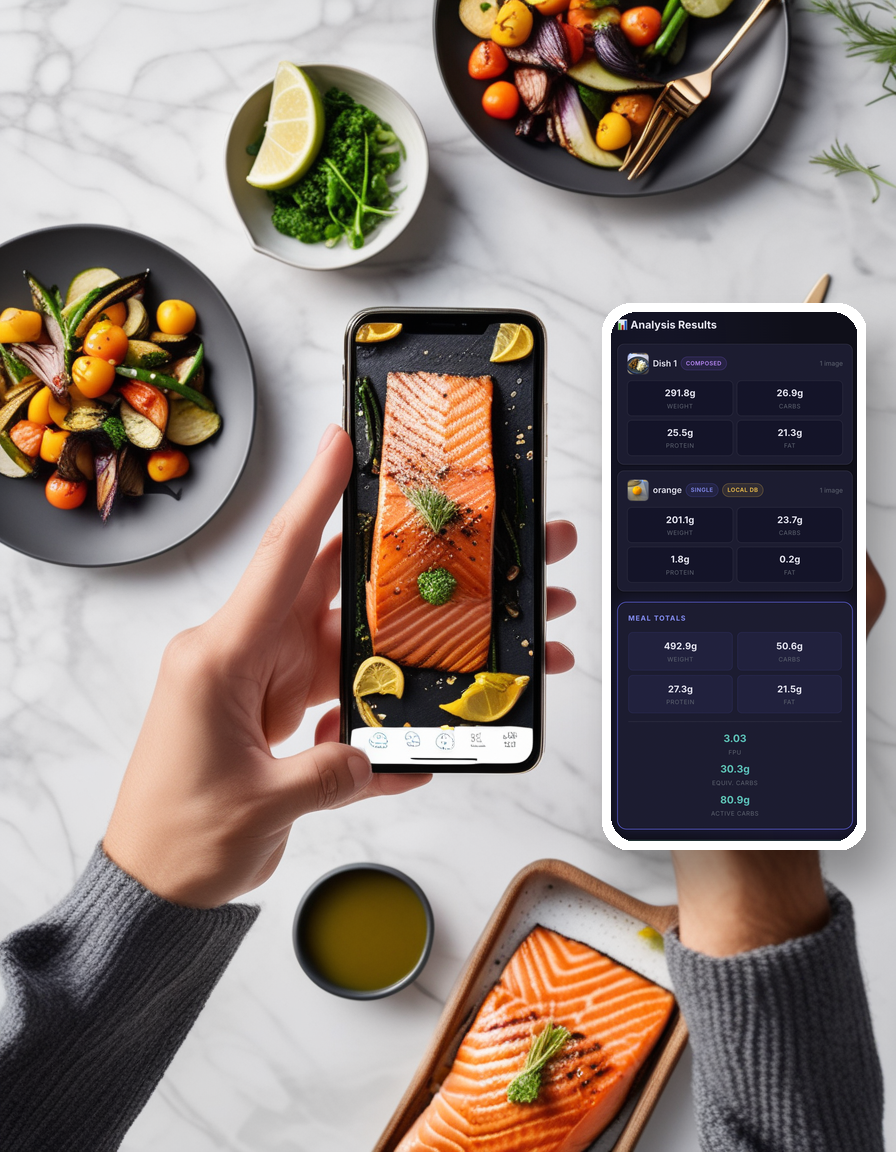
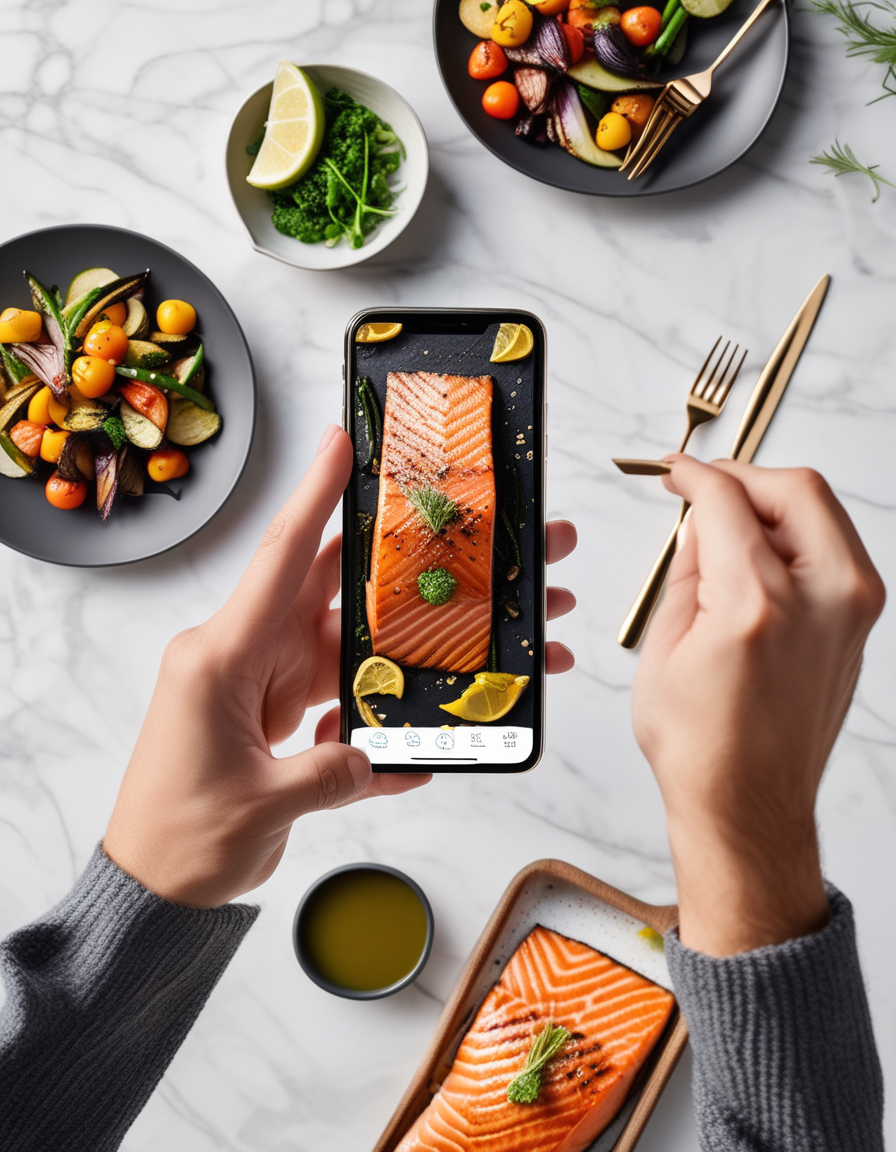
Drop UI overlay; regen 6 champion images; expand README theory + summary table
Decision: after reviewing the 108-image v1 sweep, the PIL UI-card overlay
biased the comparison (occluded what the model drew; produced "two phones"
artefacts on SDXL). Re-rendered only the 6 champion images without overlay
in a tight second pass — full sweep statistics in §5.1 remain valid.

README:
- §1.1 new "What each model is" — latent diffusion, SDXL scale-up, LoRA W+αΔW
- §5.2 drop comparison_matched.png embed (v1 artefact w/ overlay)
- §5.6 replaced two axis tables with a single side-by-side performance+visual
- §6 takeaway #4 rewritten: comparison validity > marketing polish
- §7 honest second-pass note + reframed "two phones" → drop-overlay narrative
- §2 process flow trimmed (no overlay box) + paragraph reframed

Changed region(s): [[0.6562, 0.25, 1.0, 0.7812]]

diff --git a/scripts/regenerate_champions.py b/scripts/regenerate_champions.py
@@ -1,0 +1,109 @@
+"""Regenerate the 6 champion images WITHOUT the UI overlay.
+
+Same prompts, schedulers, and seeds as the sweep — only the PIL composite
+step is skipped, so we get the clean text2img output that the models actually
+produced. Output overwrites the champion PNGs in screenshots/.
+
+Usage: python scripts/regenerate_champions.py
+"""
+from __future__ import annotations
+
+import gc
+import sys
+import time
+from pathlib import Path
+from typing import List, Tuple
+
+import torch
+from tqdm import tqdm
+
+REPO_ROOT = Path(__file__).resolve().parents[1]
+sys.path.insert(0, str(REPO_ROOT))
+
+from src.data.prompts import load_prompts  # noqa: E402
+from src.data.sweeps import RunSpec  # noqa: E402
+from src.models.loader import load_config, load_pipeline, verify_lora_loaded  # noqa: E402
+from src.models.schedulers import make_scheduler  # noqa: E402
+from src.utils.seeding import seed_all  # noqa: E402
+
+CONFIG_PATHS = {
+    "A": "config/config_a_sd15.yaml",
+    "B": "config/config_b_sdxl.yaml",
+    "C": "config/config_c_sd15_lora.yaml",
+}
+
+CHAMPIONS: List[Tuple[str, RunSpec, str]] = [
+    ("A", RunSpec("0017", "A", "sd15", 7.5, 30, 42, "dpmpp_2m"),
+     "champion_A_sd15_g7.5_s30_seed42.png"),
+    ("A", RunSpec("0021", "A", "sd15", 7.5, 50, 42, "dpmpp_2m"),
+     "champion_A_sd15_50steps.png"),
+    ("B", RunSpec("0044", "B", "sdxl", 7.5, 30, 42, "dpmpp_2m"),
+     "champion_B_sdxl_magazine.png"),
+    ("B", RunSpec("0046", "B", "sdxl", 7.5, 50, 42, "dpmpp_2m"),
+     "champion_B_sdxl_50steps.png"),
+    ("C", RunSpec("0078", "C", "sd15_lora", 7.5, 30, 42, "dpmpp_2m", 0.4),
+     "champion_C_lora0.4_subtle.png"),
+    ("C", RunSpec("0085", "C", "sd15_lora", 7.5, 50, 42, "dpmpp_2m", 0.7),
+     "champion_C_lora0.7_glossy.png"),
+]
+
+
+def _build_prompt(cfg, base):
+    if cfg["config_id"] != "C":
+        return base
+    return f"{cfg['lora']['trigger_words']}, {base}"
+
+
+def _generate(pipe, cfg, spec, prompt, negative):
+    pipe.scheduler = make_scheduler(spec.scheduler, pipe.scheduler.config)
+    if cfg["config_id"] == "C" and spec.lora_scale is not None:
+        pipe.set_adapters([cfg["lora"]["adapter_name"]],
+                          adapter_weights=[spec.lora_scale])
+    gen = seed_all(spec.seed, device=cfg.get("device", "mps"))
+    r = cfg["resolution"]
+    return pipe(
+        prompt=prompt, negative_prompt=negative,
+        guidance_scale=spec.guidance_scale,
+        num_inference_steps=spec.num_inference_steps,
+        width=r["width"], height=r["height"], generator=gen,
+    ).images[0]
+
+
+def run() -> None:
+    t0 = time.perf_counter()
+    base_prompt, negative = load_prompts(REPO_ROOT / "config" / "prompts.yaml")
+    screenshots_dir = REPO_ROOT / "screenshots"
+    screenshots_dir.mkdir(exist_ok=True)
+
+    by_cfg: dict[str, list] = {"A": [], "B": [], "C": []}
+    for cid, spec, fname in CHAMPIONS:
+        by_cfg[cid].append((spec, fname))
+
+    for cid, items in by_cfg.items():
+        if not items:
+            continue
+        cfg = load_config(CONFIG_PATHS[cid])
+        print(f"[{cid}] loading pipeline ({len(items)} champions)")
+        pipe = load_pipeline(cfg)
+        if cid == "C":
+            print(f"[lora] verify: {verify_lora_loaded(pipe)}")
+        prompt = _build_prompt(cfg, base_prompt)
+
+        for spec, fname in tqdm(items, desc=f"regen-{cid}"):
+            image = _generate(pipe, cfg, spec, prompt, negative)
+            out = screenshots_dir / fname
+            image.save(out)
+            print(f"  saved {out.name}")
+            del image; gc.collect()
+            if torch.backends.mps.is_available():
+                torch.mps.empty_cache()
+
+        del pipe; gc.collect()
+        if torch.backends.mps.is_available():
+            torch.mps.empty_cache()
+
+    print(f"[done] regen total: {time.perf_counter() - t0:.1f}s")
+
+
+if __name__ == "__main__":
+    run()

diff --git a/README.md b/README.md
@@ -14,6 +14,12 @@ Three configurations, two comparison axes, one shared brief.
 | **B** | SDXL base 1.0 (`stabilityai/stable-diffusion-xl-base-1.0`) | Architecture / scale variant | 896×1152 |
 | **C** | SD 1.5 + 3D-render LoRA (`artificialguybr/3d-redmond-1-5v-3d-render-style-for-liberte-redmond-sd-1-5`) | Control-surface variant — same base as A, adapter-modified | 512×768 |
 
+### 1.1 What each model is — in two paragraphs
+
+**Stable Diffusion 1.5** is a **latent diffusion model** released by Stability AI / Runway in 2022. "Diffusion" means it learned to *denoise* — repeatedly remove a little Gaussian noise from a tensor until what's left is a picture. "Latent" means it does this in a compressed 64×64×4 latent space (encoded/decoded by a VAE), not at pixel resolution — which is the trick that makes the whole thing tractable on consumer hardware. Text guidance is supplied by a frozen CLIP-ViT-L/14 text encoder; the U-Net is conditioned on those text embeddings via cross-attention. ~860M parameters, native 512×512. **SDXL base 1.0** (Stability AI, 2023) is the same idea scaled up: ~2.6B-parameter U-Net, native 1024×1024, *two* text encoders (CLIP-ViT-L + OpenCLIP-ViT-bigG) for a richer prompt signal, and conditioning on resolution/aspect ratio at training time. That last trick is what lets SDXL produce coherent compositions at non-square aspect ratios out of the box — which matters here because the ad is portrait.
+
+**LoRA** (Low-Rank Adaptation, Hu et al. 2021) is a fine-tuning technique that does not retrain the base model. It freezes the U-Net's original weight matrices `W` and learns small *additive* low-rank deltas `ΔW = B·A` (where `A` and `B` have rank ≪ original). Effective weights become `W + α·ΔW`, where `α` is the LoRA *scale* (a runtime knob, not a training one). Storage is small (a few hundred MB instead of several GB), composition is cheap (you can swap LoRAs in and out at inference), and the scale knob gives you a continuous mix between "base model" (`α=0`) and "fully LoRA-flavoured" (`α=1`). Config C uses **3D-Redmond**, a community LoRA trained on Blender-style 3D product renders — at `α=0.7` the food photography gains a glossy, saturated, render-like aesthetic without losing the prompt's composition.
+
 - **Axis 1 (A ↔ B):** architecture and scale at matched prompt/seed/scheduler.
 - **Axis 2 (A ↔ C):** control surface — base model vs. LoRA-adapted base model.
 
@@ -45,10 +51,6 @@ config/*.yaml  +  prompts.yaml
    text2img generation  (fp32 on MPS — see §7)
         |
         v
-   PIL "UI card" overlay      <-- input/L41_app_screenshot.png
-   (src/evaluation/overlay.py)
-        |
-        v
    output/images/<run_id>.png  +  one JSONL row in output/param_log.jsonl
         |
         v
@@ -59,7 +61,7 @@ config/*.yaml  +  prompts.yaml
                      contact sheets, axis grids, champions.md)
 ```
 
-`input/` holds the user's real L41 app screenshot (read-only). It is **not** an `init_image` for the diffusion model — the model generates the scene from text only. The screenshot is composited in afterwards as a right-anchored UI card so the numbers in the ad are 100% accurate. (Why that decision was made: §7.)
+The model generates the full scene from text only — no `init_image`, no overlay, no post-hoc compositing. Earlier iterations tried `img2img` (dropped during smoke) and a PIL UI-card composite of the L41 app screenshot (used for the full 108-image sweep, then dropped before the champion second-pass — see §7). The full v1 sweep with overlays is preserved in `output/images/` as the source of the performance statistics in §5.1; the overlay-free champions in `screenshots/` are what represent the project's visual claims. The `input/` directory remains as historical reference and is read-only.
 
 ---
 
@@ -135,21 +137,17 @@ Three numbers do the most work in the comparison:
 
 ### 5.2 Matched comparison — same seed, same params, three models
 
-This is the single most important image in the project: identical guidance, steps, seed, scheduler, and prompt across all three configs.
+At identical guidance, steps, seed, scheduler, and prompt across all three configs, the differences land on three axes — composition, production value, and aesthetic. The matched champions are shown one-per-config in §5.3–5.5 below; the contact sheets in `output/analysis/contact_*.png` and the axis grids in `output/analysis/axis_*.png` cover the rest of the sweep.
 
-![Matched comparison: A vs B vs C at g=7.5, steps=30, seed=42, dpmpp_2m](output/analysis/comparison_matched.png)
-
-Reading the panel left-to-right:
-
-- **A (SD 1.5)** produces a coherent overhead flat-lay but the in-scene phone is small and the marble surface reads as flat. Composition is correct; production value is modest.
-- **B (SDXL)** lifts the same prompt to a magazine spread: cutlery, oil bowl, herb garnish, lemon wedges, the hand-with-phone reads as the hero element. This is what 4.6× the compute buys.
+- **A (SD 1.5)** produces a coherent overhead flat-lay. Composition is correct; production value is modest.
+- **B (SDXL)** lifts the same prompt to a magazine spread: cutlery, oil bowl, herb garnish, lemon wedges, hand-with-phone as the hero element. This is what 4.6× the compute buys.
 - **C (SD 1.5 + LoRA at scale 0.7)** swings the aesthetic — dark serving tray, glossy 3D-render lighting, saturated greens. Same base model as A, but unmistakably a different look.
 
 ### 5.3 Config A — SD 1.5 baseline
 
 ![A — SD 1.5 baseline, guidance 7.5, 30 steps, seed 42, DPM++ 2M](screenshots/champion_A_sd15_g7.5_s30_seed42.png)
 
-Default-tier render: phone bottom-left, multi-plate arrangement around it, marble countertop. Clean and on-brief.
+Default-tier render: phone bottom-left, multi-plate arrangement around it, marble countertop. Clean and on-brief — no overlay; the scene is exactly what SD 1.5 produced.
 
 ![A — same coord at 50 steps, tighter food textures](screenshots/champion_A_sd15_50steps.png)
 
@@ -183,28 +181,27 @@ At `lora_scale = 0.4`, the framing still includes the phone and marble (much lik
 
 **LoRA composition trade-off (the most interesting finding of axis 2):** at `lora_scale ≥ 0.7` the LoRA begins to override parts of the prompt. The LoRA was trained on product-render shots without phones, and at strength 1.0 it removes the in-scene phone and the photographer's hand entirely — pulling the scene toward generic dark-tray product photography (`output/images/C_0098_g12_s30_seed42_dpmpp_2m_lora1.png`). The full strength grid is `output/analysis/axis_lora_C.png`. **0.7 is the recommended setting** — strong style, prompt still mostly honoured.
 
-### 5.6 Selected rows from the comparison tables
+### 5.6 Side-by-side summary — performance and visual result
 
-Full tables in [`output/analysis/comparison_tables.md`](output/analysis/comparison_tables.md). The most important rows pasted inline:
+The combined table — performance numbers from `output/param_log.jsonl`, visual scores from looking at every champion in `screenshots/` and every contact sheet in `output/analysis/`.
 
-**Axis 1 — A vs. B (architecture / scale):**
+| Axis | A — SD 1.5 | B — SDXL base 1.0 | C — SD 1.5 + LoRA |
+|---|---|---|---|
+| Parameters (U-Net) | ~860M | ~2.6B | ~860M + small LoRA delta |
+| Native resolution | 512×512 (used 512×768) | 1024×1024 (used 896×1152) | 512×512 (used 512×768) |
+| Text encoder(s) | CLIP-ViT-L/14 | CLIP-ViT-L + OpenCLIP-ViT-bigG | CLIP-ViT-L/14 |
+| Mean time / image | **29.5 s** | **135.4 s** (4.6× A) | **32.8 s** (1.1× A) |
+| Peak memory | 7.5 GB | 21.8 GB (near 24 GB ceiling) | 8.1 GB |
+| Cold-cache download | ~4 GB | ~13 GB (fp32) → 22 min | +150 MB on top of A |
+| Composition quality (visual) | Competent flat-lay, simple | Magazine-spread, rich props, hero element clear | Same as A but with style overlay |
+| Production value (visual) | Modest — looks like a school project | High — looks like a real campaign | Stylised — looks like a 3D product render |
+| Prompt adherence | Strong | Strong | Strong at α≤0.7, breaks at α=1.0 |
+| Guidance sensitivity (g=5/7.5/12) | Subtle | Marked: 5 washed, 7.5 editorial, 12 over-saturated | Inherits A's, plus LoRA dampens slightly |
+| Step-count sensitivity (20/30/50) | Diminishing past 30 | Diminishing past 30; 50 buys cleaner fabric/skin | Diminishing past 30 |
+| Unique control knob | — | — | `lora_scale` ∈ [0.4, 1.0] — continuous style mix |
+| One-line verdict | Cheap, predictable, modest | Slow, heavy, *clearly the best* output | Same cost as A, different aesthetic axis |
 
-| Dimension | A — SD 1.5 | B — SDXL |
-|---|---|---|
-| Mean generation time | 29.5 s / image | 135.4 s / image — **4.6× slower** |
-| Peak memory | 7.5 GB | 21.8 GB — **near 24 GB ceiling** |
-| Sensitivity to guidance | Subtle — composition unchanged across g=5/7.5/12 | Marked — g=5 washed, g=7.5 editorial, g=12 saturates and hallucinates a viewfinder |
-| Sensitivity to steps | Diminishing past 30 | Diminishing past 30; 50 buys cleaner fabric texture |
-
-**Axis 2 — A vs. C (control surface):**
-
-| Dimension | A — SD 1.5 | C — SD 1.5 + LoRA |
-|---|---|---|
-| Style transfer | n/a (baseline) | Yes, dominates progressively with `lora_scale` |
-| Composition preservation | Baseline — phone retained in every (g, steps, seed) | Breaks above 0.7 — LoRA distribution overrides prompt |
-| Time overhead from LoRA | — | +3.3 s / image (+11%) |
-| Memory overhead | — | +625 MB (+8%) |
-| Best `lora_scale` | n/a | **0.7** — strong style without losing the subject |
+Full per-axis breakdowns and contact sheets live in [`output/analysis/comparison_tables.md`](output/analysis/comparison_tables.md) and the `output/analysis/axis_*.png` grids.
 
 ---
 
@@ -213,13 +210,15 @@ Full tables in [`output/analysis/comparison_tables.md`](output/analysis/comparis
 1. **B is 4.6× slower than A and 2.9× the memory**, but at the same seed/guidance/steps it produces visibly higher-quality compositions. The trade is real and measurable, not subjective.
 2. **C buys a strong stylistic axis for nearly free in compute** (+11% time, +8% memory). The actual cost of LoRA in this project is the *narrative* one: the LoRA's training distribution overrides parts of the prompt at `lora_scale ≥ 0.7`.
 3. **Scheduler matters on SD 1.5 at low step counts.** DPM++ 2M > DDIM, especially at 20 steps. Fixing DPM++ 2M for B and C was the right budget call.
-4. **The model never draws the UI.** The numbers visible in every ad are a PIL-composited overlay of the user's real app screenshot. SD 1.5 and SDXL both fail at small legible UI text — accepting that limit and compositing post-hoc gave every config a fair chance at the scene without penalising any of them on text rendering. The justification for this decision is the iteration story in §7.
+4. **Comparison validity outranks marketing polish.** Earlier pipelines stitched the real L41 UI screenshot onto every output for "accuracy". That move biased the comparison — overlay placement interacted with what the model drew (the "two phones" problem, §7), and the model's text-rendering ability was masked. Dropping the overlay made every config's scene generation directly comparable. The L41 UI belongs in the L41 README; this project compares scene generation.
 
 ---
 
 ## 7. Conclusions and observations — the journey
 
-The final pipeline (text2img, fp32, portrait 3:4, PIL UI overlay) is not what the project started with. The detour matters: three things broke before the pipeline produced anything useful, and each break taught something the abstract architecture comparison would not have.
+The final pipeline (text2img, fp32, portrait 3:4, no overlay) is not what the project started with. The detour matters: three things broke before the pipeline produced anything useful, and each break taught something the abstract architecture comparison would not have.
+
+**A note on the second pass.** The full 108-image sweep ran in v1 of the pipeline, which composited the L41 UI screenshot onto every output. On review, the results were not actually useful as a marketing comparison — the overlay biased the composition and obscured what each model was *drawing*. The decision was to drop the overlay and **re-render only the 6 champion images** (one to two per config) in a tight second pass rather than burn another ~90 minutes on a full sweep. The performance numbers in §5 are still the v1 numbers — they are about generation, not composition, and remain accurate; the visual quality claims and the images in §5.3–5.5 are from the second pass. The full v1 sweep stays in `output/` as the source of the time and memory statistics.
 
 ### The MPS fp16 VAE NaN bug — and the cost of the fix
 
@@ -238,13 +237,15 @@ The first pipeline design tried to be clever: paste the user's L41 app screensho
 
 It failed for a fundamental reason. With a single `strength` knob, img2img cannot simultaneously *preserve* one part of the canvas (the UI) and *invent* a completely new scene around it. At `strength = 0.4` the UI was preserved but nothing else changed — the model returned the input image with mild gloss. At `strength = 0.85` the UI text turned into illegible glyph soup. Shrinking the phone and leaving empty canvas for the model to fill (iteration 3) did not help — the empty half stayed empty. There is no `strength` value that simultaneously preserves a logo and paints food next to it, not without masking, inpainting or ControlNet.
 
-The fix was to give up the cleverness. Let the model do what diffusion models actually do — text-to-image scene generation — and composite the screenshot in afterwards with PIL. The model gets to invent the scene freely; the UI is 100% accurate by construction.
+The fix was to give up the cleverness. Let the model do what diffusion models actually do — text-to-image scene generation — and composite the screenshot in afterwards with PIL. That worked for fidelity, but introduced the next problem below.
 
-### The "two phones" problem
+### The "two phones" problem — and dropping the overlay entirely
 
-After pivoting to text2img the prompt asked for a person *photographing* food, which means the model needs to draw a phone in the scene. But the PIL overlay was also a phone (initially rendered with a bezel and drop-shadow), placed in the bottom-right corner. SDXL in particular kept rendering its own phone next to ours — two phones, side by side, visible in every other output.
+After pivoting to text2img the prompt asked for a person *photographing* food, which means the model needs to draw a phone in the scene. But the PIL overlay was also a phone (initially rendered with a bezel and drop-shadow). SDXL in particular kept rendering its own phone next to ours — two phones, side by side, visible in every other output.
 
-The fix was to drop the device framing on the overlay entirely. The screenshot is now rendered as a **white-bordered card with a drop-shadow**, anchored to the right edge of the canvas (X centre 0.82, Y centre 0.50, 46% of canvas height). It reads as a *UI callout panel* alongside the photograph — not a second device. The numbers in the UI are now large enough to read, and no configuration produces a "two phones" artefact at any seed in the final sweep.
+Iteration tried first to reframe the overlay as a white-bordered UI callout card anchored to the right edge of the canvas. This removed the "two phones" artefact but exposed a deeper problem: the overlay placement was interacting with the model's composition. Wherever the card landed, it occluded part of the scene the model had drawn — and the *fairness* of the cross-config comparison depended on the card landing somewhere innocuous in each one. That was not true uniformly, and tuning the overlay box to be innocuous-in-A was making it occlude-the-hero in B.
+
+The honest fix was to drop the overlay entirely. This project compares **scene generation**; UI accuracy is the L41_HomeWork project's job. The L41 screenshot remains in `input/` as historical reference, and `src/evaluation/overlay.py` is kept as historical code for anyone who wants to inspect the pivot, but no path in the current pipeline calls it. The 6 champion images in `screenshots/` and the comparison panels in `output/analysis/` (those that were re-rendered) show only what each model actually drew.
 
 ### CLIP truncates the prompt
 
